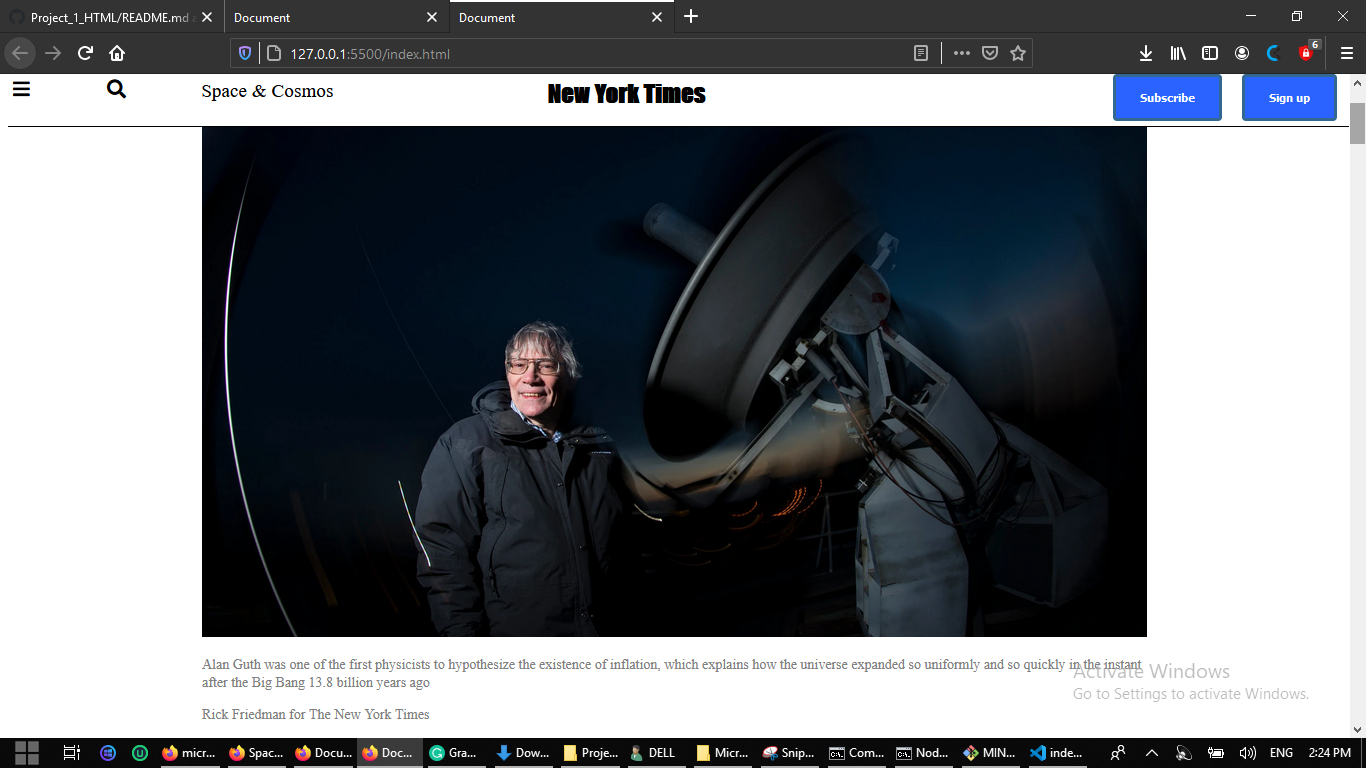
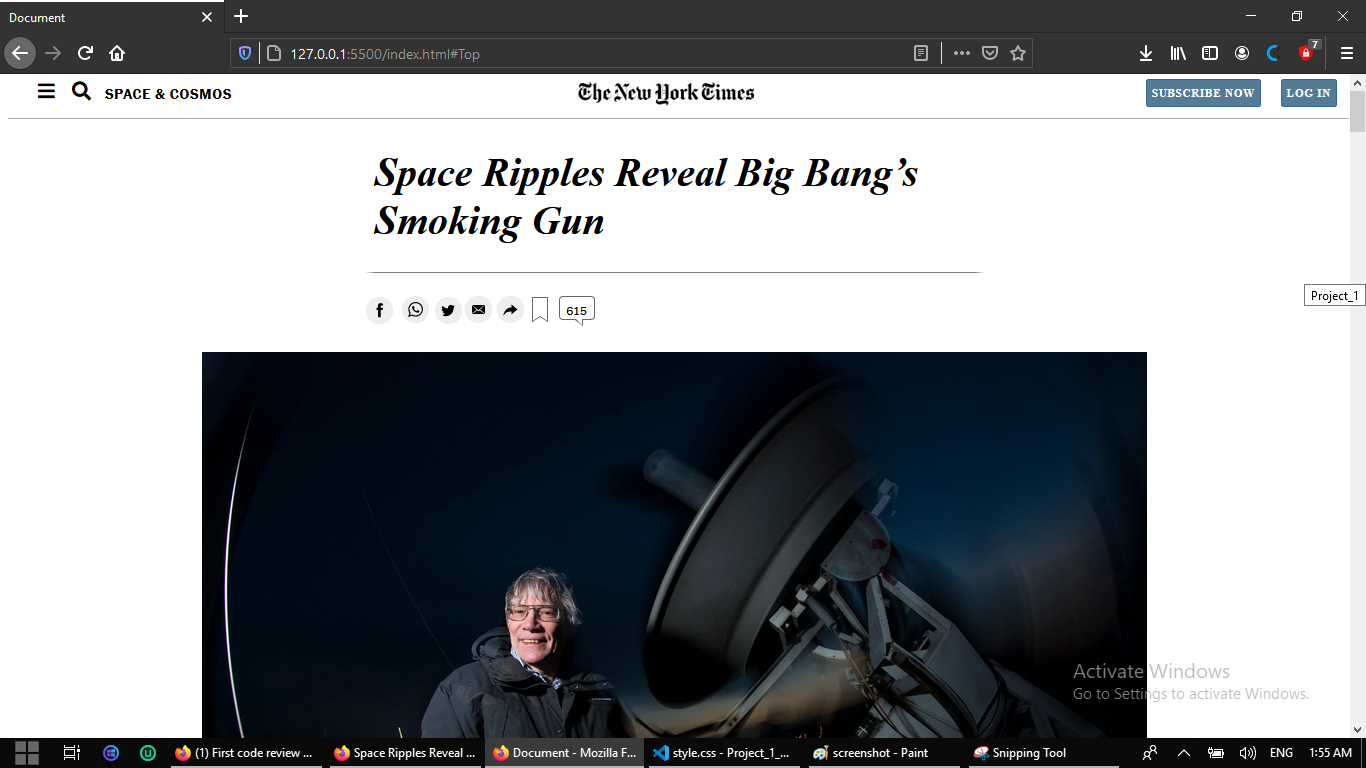
Finished navbar and body section

diff --git a/index.html b/index.html
@@ -106,7 +106,11 @@
                     <img class="fleximg" src="https://raw.githubusercontent.com/mariordgez/Project_1_HTML/project-1-microverse/images/pic8.PNG" alt="img8">
                     <p>EXPANSION  Returning to our coffee, imagine a single, central pot expanding faster than light and cooling to an even temperature as it expands. That is something like inflation. And the structure of the universe mirrors the froth and foam of the original pot.</p>
                 </div>
-            </div>
+        </div>
+            <div class="big-section"> 
+                <p class="border-bottom">           </p>
+                <p class="gray">By LARRY BUCHANAN and JONATHAN CORUM</p>
+        </div>    
         
         <div class="middle-section">
             <p>Dr. Kovac said the chance that the results were a fluke was only one in 10 million.</p>
@@ -115,9 +119,10 @@
             <p>The results are the closely guarded distillation of three years’ worth of observations and analysis. Eschewing email for fear of a leak, Dr. Kovac personally delivered drafts of his work to a select few, meeting with Dr. Guth, who is now a professor at Massachusetts Institute of Technology (as is his son, Larry, who was sleeping that night in 1979), in his office last week.</p>
             <p>“It was a very special moment, and one we took very seriously as scientists,” said Dr. Kovac, who chose his words as carefully as he tended his radio telescopes.</p>
             <p>Andrei Linde of Stanford, a prolific theorist who first described the most popular variant of inflation, known as chaotic inflation, in 1983, was about to go on vacation in the Caribbean last week when Chao-Lin Kuo, a Stanford colleague and a member of Dr. Kovac’s team, knocked on his door with a bottle of Champagne to tell him the news.</p>
-
             <iframe src="https://www.youtube.com/embed/ZlfIVEy_YOA" title="YouTube video player"  allow="accelerometer; autoplay; clipboard-write; encrypted-media; gyroscope; picture-in-picture" allowfullscreen></iframe>
-            <h4>Stanford Professor Andrei Linde celebrates physics breakthroughCredit...CreditVideo by StanfordUniversity</h4>
+            <div class="img1">
+                <p>Stanford Professor Andrei Linde celebrates physics breakthrough. <span class="small gray">Video by StanfordUniversity</span></p>
+           </div>
             <p>Confused, Dr. Linde called out to his wife, asking if she had ordered anything.</p>
             <p>“And then I told him that in the beginning we thought that this was a delivery but we did not think that we ordered anything, but I simply forgot that actually I did order it, 30 years ago,” Dr. Linde wrote in an email.</p>
             <p>Calling from Bonaire, the Dutch Caribbean island, Dr. Linde said he was still hyperventilating. “Having news like this is the best way of spoiling a vacation,” he said.</p>
@@ -135,7 +140,7 @@
         </div>
         <div class="img2">
             <img class="image2" src="https://static01.nyt.com/images/2014/03/18/science/space/18cosmos-2/18cosmos-2-jumbo.jpg?quality=90&auto=webp" alt="">
-            <h4>The Bicep2 telescope, in the foreground, was used to detect the faint spiraling gravity patterns — the signature of a universe being wrenched violently apart at its birth.Credit...Steffen Richter/Associated Press</h4>
+            <p>The Bicep2 telescope, in the foreground, was used to detect the faint spiraling gravity patterns — the signature of a universe being wrenched violently apart at its birth. <span class="small gray">Steffen Richter/Associated Press</span></p>
         </div>
         <div class="middle-section">    
             <p>In 2002, he was part of a team that discovered that the microwave radiation was polarized, meaning the light waves had a slight preference to vibrate in one direction rather than another.</p>

diff --git a/style.css b/style.css
@@ -131,6 +131,11 @@ a:hover {
   font-family: 'Times New Roman', Times, serif;
 }
 
+.border-bottom {
+  width: 80px;
+  border-bottom: 1px solid black;
+}
+
 .box {
   width: 225px;
 }
@@ -159,9 +164,10 @@ a:hover {
 
 .img2 {
   width: 600px;
-  font-size: 0.875rem;
-  line-height: 1.125rem;
-  color: gray;
+  font-size: 0.9375rem;
+  line-height: 1.25rem;
+  color: #666;
+  font-family: 'Times New Roman', Times, serif;
 }
 
 .big-section {
